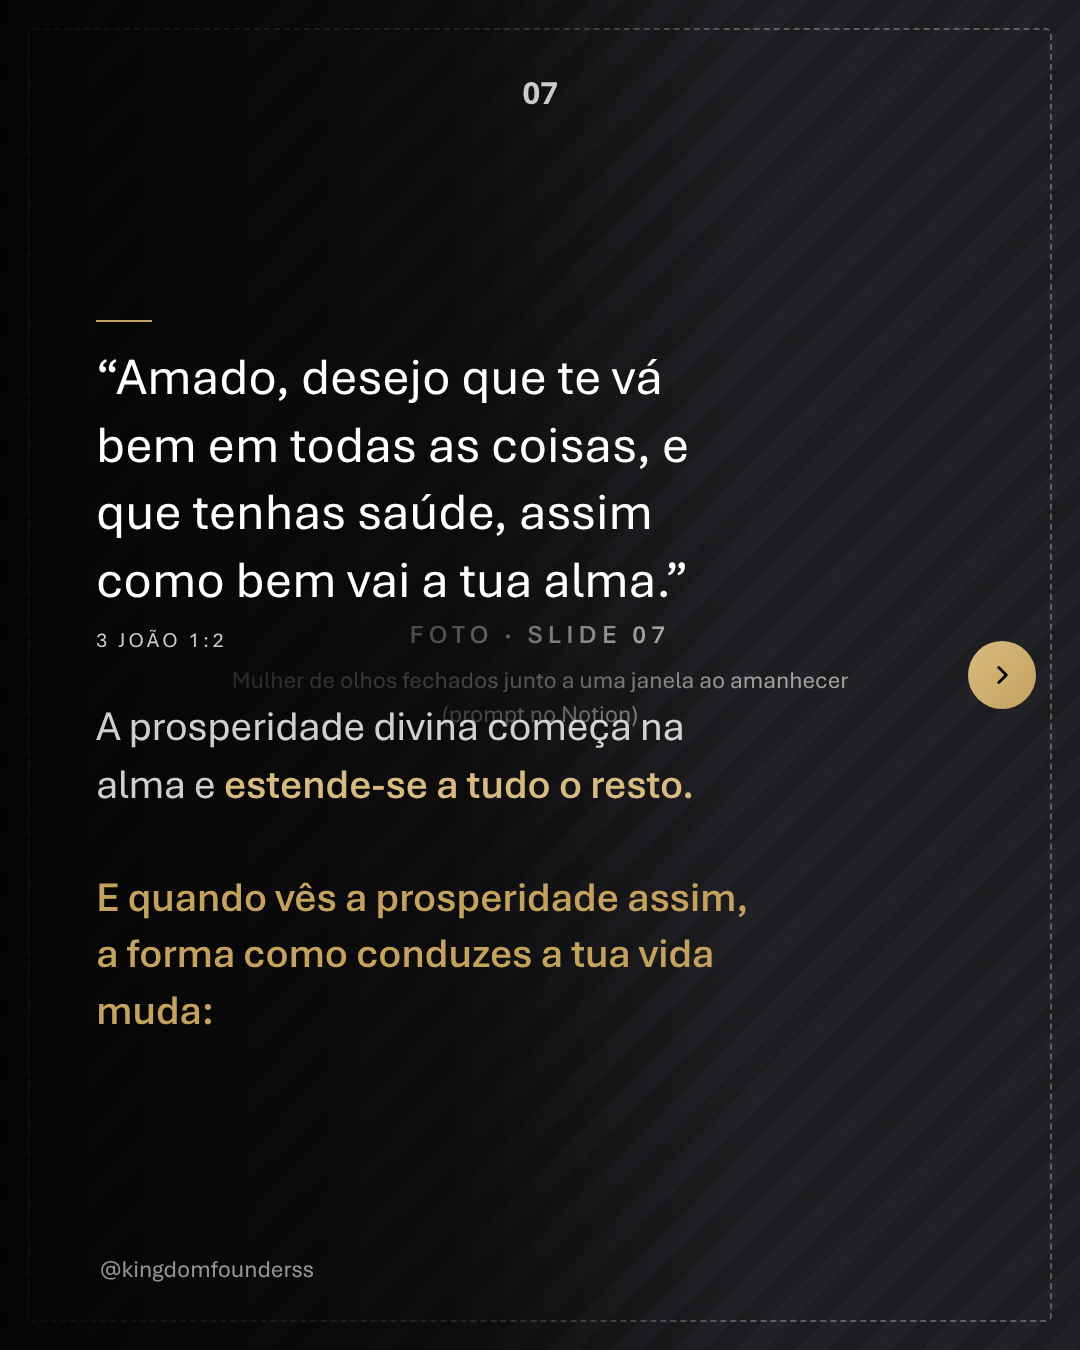
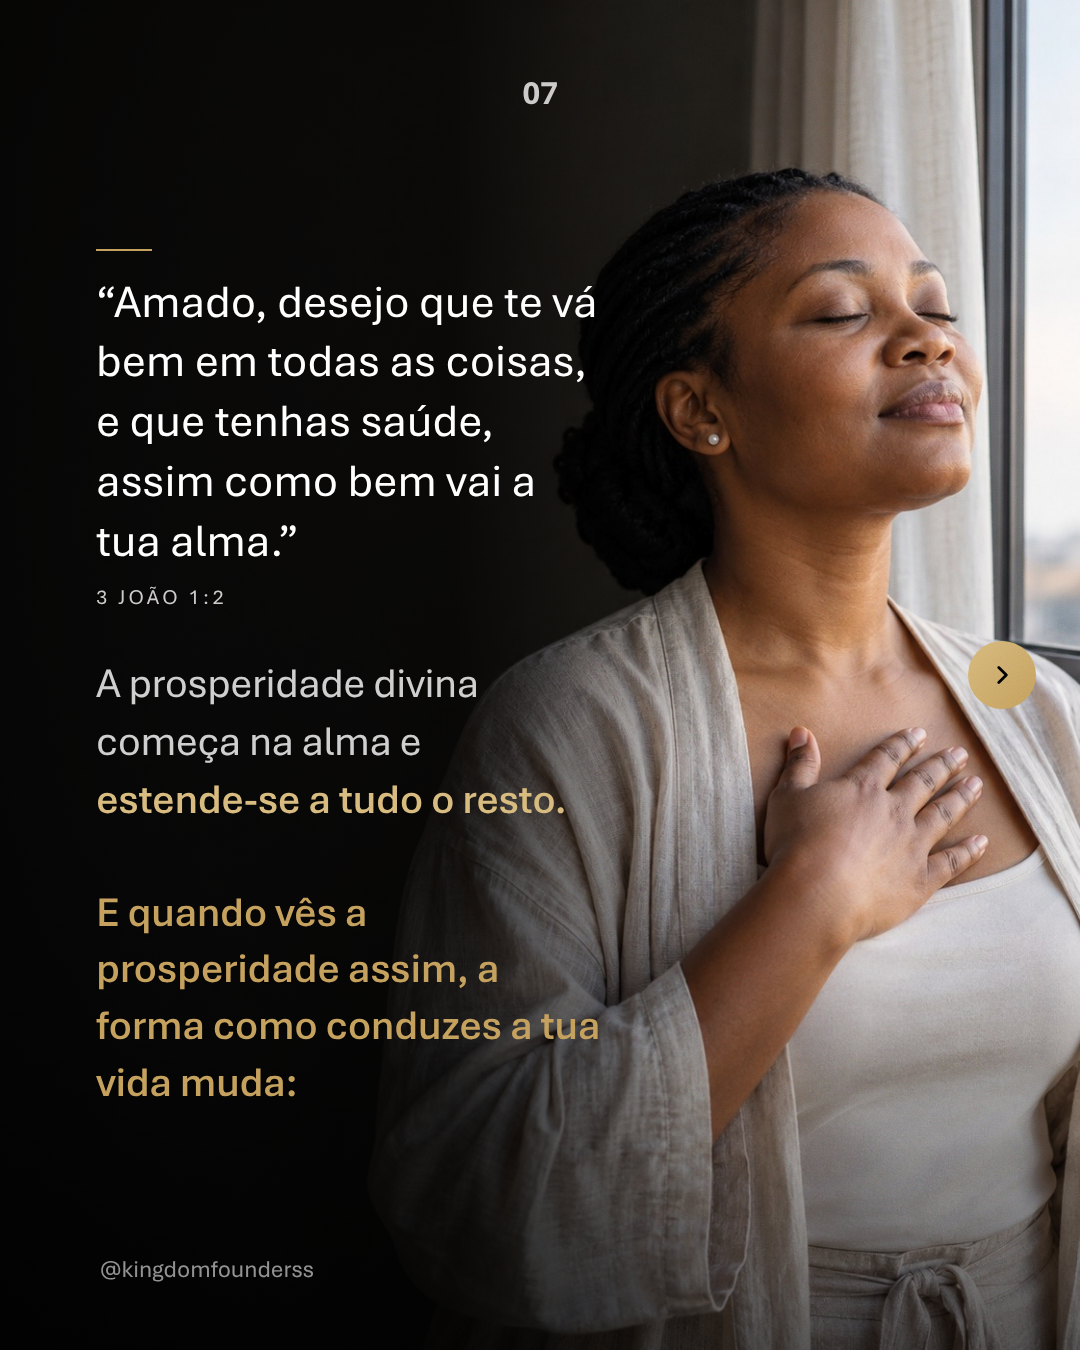
28/10: nova capa e fotos dos slides 07 e 10
Claude-Session: https://claude.ai/code/session_01RgmbLLVHoJT5B4GNygU6zs

diff --git a/content/founders/semana-02/index.html b/content/founders/semana-02/index.html
@@ -178,7 +178,8 @@ body{ background:#2a2a2a; display:flex; flex-wrap:wrap; gap:40px; padding:40px; 
 
 <!-- ============ 28/10 · Carrossel · Prosperidade divina · capa padrão 19/10 + interior estilo B · 10 slides · fotos em 01, 04, 07, 10 · claros 03, 06, 08 ============ -->
 <section class="post grain" data-file="2026-10-28-prosperidade-divina/01.png">
-  <div class="photo"><img src="img/2026-10-28-capa.jpg" alt="" style="object-position:50% 0%"></div>
+  <div class="photo" style="top:64px"><img src="img/2026-10-28-capa.jpg" alt="" style="object-position:50% 0%"></div>
+  <div style="position:absolute;left:0;right:0;top:64px;height:150px;background:linear-gradient(180deg,#000,rgba(0,0,0,0))"></div>
   <div class="num">01</div>
   <div class="cover-a ttl" style="--ts:92px;font-weight:700;bottom:262px">
     <div class="t1">Podes ter <span class="it">dinheiro</span></div>
@@ -257,12 +258,12 @@ body{ background:#2a2a2a; display:flex; flex-wrap:wrap; gap:40px; padding:40px; 
 </section>
 
 <section class="post grain" data-file="2026-10-28-prosperidade-divina/07.png">
-  <div class="ph" style="inset:0"><b>Foto · slide 07</b><span>Mulher de olhos fechados junto a uma janela ao amanhecer (prompt no Notion)</span></div>
-  <div class="bgfade" style="background:linear-gradient(90deg,rgba(0,0,0,.88) 0%,rgba(0,0,0,.62) 42%,rgba(0,0,0,0) 70%)"></div>
+  <div class="bgph"><img src="img/2026-10-28-s07-janela.jpg" alt="" style="object-position:100% 20%"></div>
+  <div class="bgfade" style="background:linear-gradient(90deg,rgba(0,0,0,.92) 0%,rgba(0,0,0,.8) 42%,rgba(0,0,0,0) 68%),linear-gradient(180deg,rgba(0,0,0,0) 70%,rgba(0,0,0,.6) 100%)"></div>
   <div class="num">07</div>
-  <div class="content" style="right:330px">
-    <p class="verse" style="margin-top:0;font-size:52px;line-height:1.3">“Amado, desejo que te vá bem em todas as coisas, e que tenhas saúde, assim como bem vai a tua alma.”<span class="ref">3 João 1:2</span></p>
-    <p class="p" style="margin-top:44px">A prosperidade divina começa na alma e <b>estende-se a tudo o resto.</b></p>
+  <div class="content" style="right:480px">
+    <p class="verse" style="margin-top:0;font-size:46px;line-height:1.3">“Amado, desejo que te vá bem em todas as coisas, e que tenhas saúde, assim como bem vai a tua alma.”<span class="ref">3 João 1:2</span></p>
+    <p class="p" style="margin-top:44px">A prosperidade divina começa na alma e <b><span style="white-space:nowrap">estende-se</span> a tudo o resto.</b></p>
     <p class="bridge">E quando vês a prosperidade assim, a forma como conduzes a tua vida muda:</p>
   </div>
   <div class="next"><svg><use href="#chev"/></svg></div><div class="handle">@kingdomfounderss</div>
@@ -293,9 +294,9 @@ body{ background:#2a2a2a; display:flex; flex-wrap:wrap; gap:40px; padding:40px; 
 </section>
 
 <section class="post grain" data-file="2026-10-28-prosperidade-divina/10.png">
-  <div class="ph" style="inset:0"><b>Foto · slide 10</b><span>Pai de mão dada com a filha ao fim da tarde (prompt no Notion)</span></div>
-  <div class="bgfade" style="background:radial-gradient(75% 62% at 50% 52%,rgba(0,0,0,.9),rgba(0,0,0,.55))"></div>
-  <div class="cta">
+  <div class="bgph"><img src="img/2026-10-28-s10-pai-filha.jpg" alt="" style="object-position:50% 100%"></div>
+  <div class="bgfade" style="background:linear-gradient(180deg,rgba(0,0,0,.88) 0%,rgba(0,0,0,.8) 40%,rgba(0,0,0,.35) 62%,rgba(0,0,0,0) 74%,rgba(0,0,0,.35) 100%)"></div>
+  <div class="cta" style="bottom:520px;justify-content:flex-end">
     <img class="logo" src="../../brand/founders/assets/kingdom-founders-simbolo.svg" alt="Kingdom Founders">
     <div class="wt" style="font-size:84px">Prosperar é crescer <b>por inteiro.</b></div>
     <p class="p" style="margin-top:44px">Guarda este post e revê as cinco esferas no fim de cada mês.</p>
